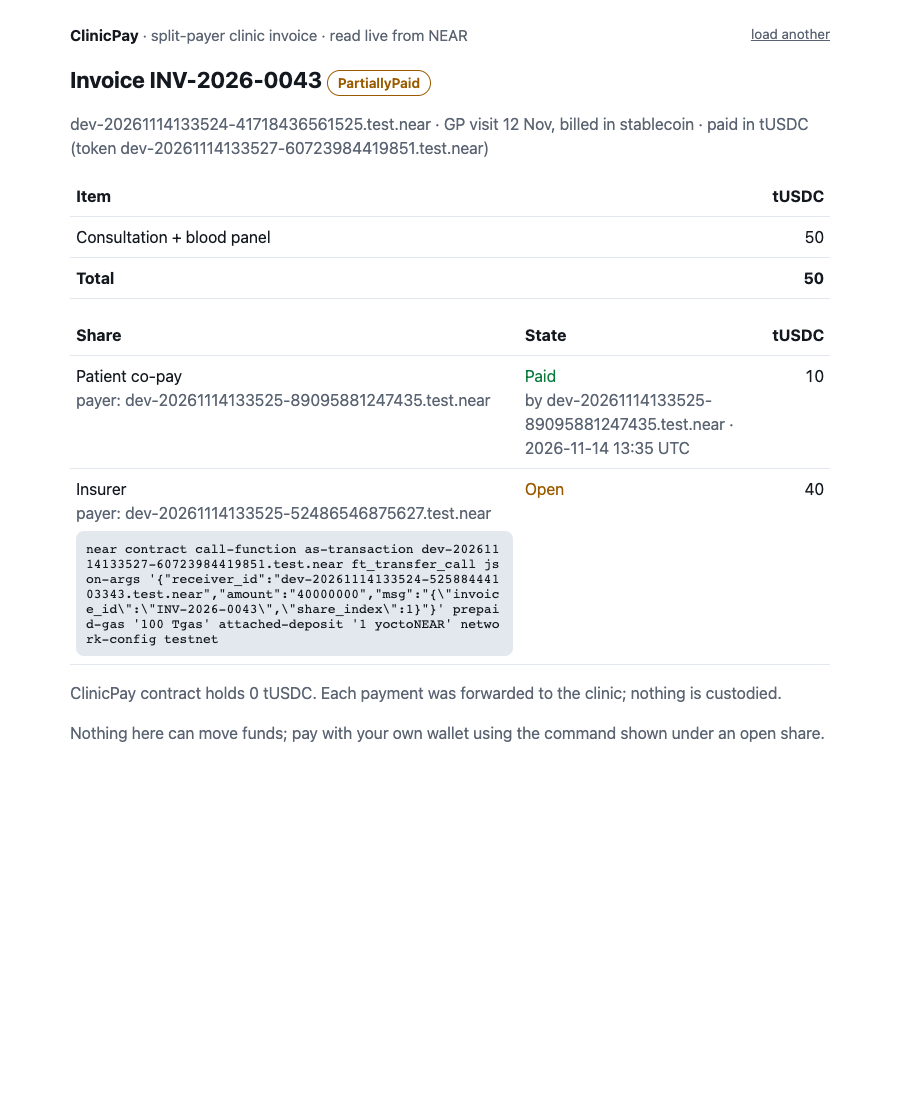
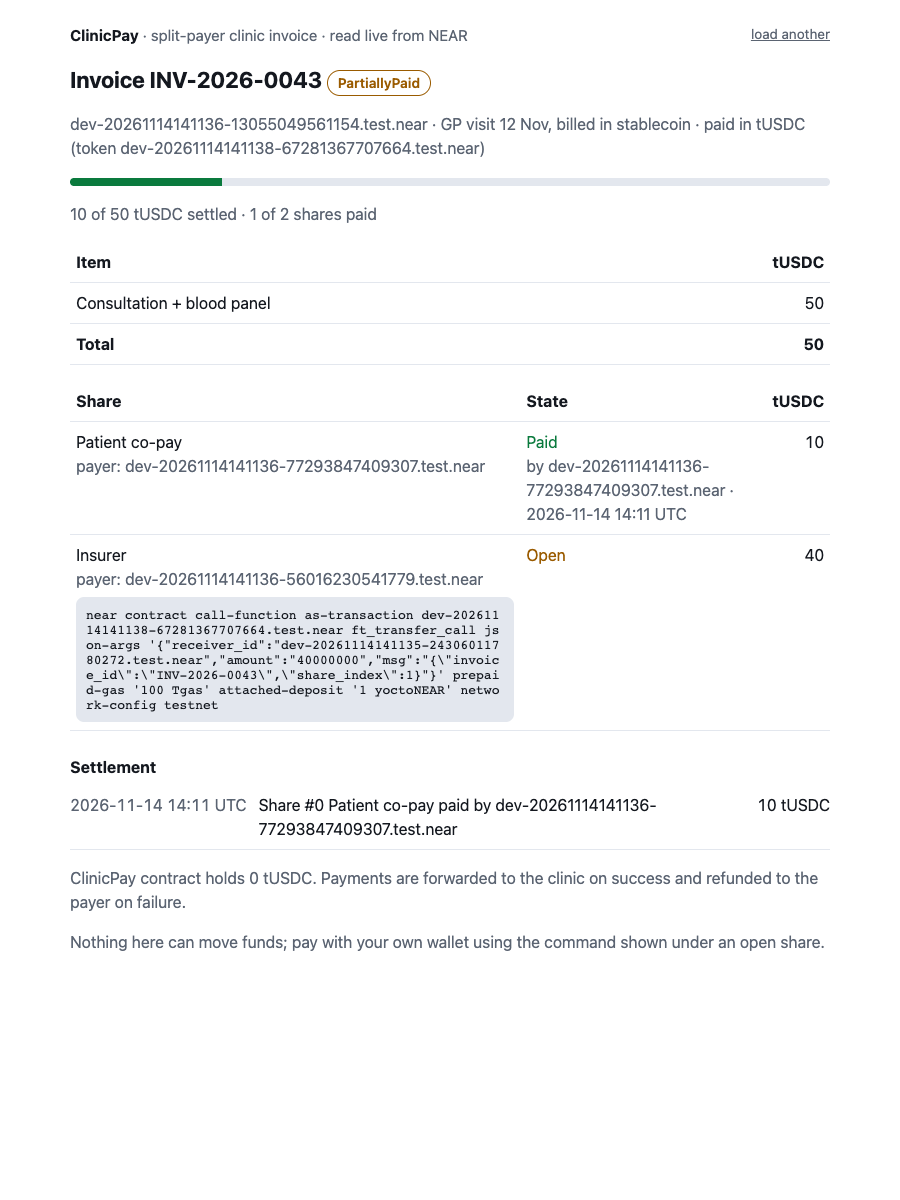
Invoice page: settlement progress and receipt timeline
The viewer now shows how much of the invoice is settled and a chronological
settlement list derived from the on-chain share records, so the page tells
the story without reading the command under an open share.

diff --git a/web/invoice.html b/web/invoice.html
@@ -18,6 +18,14 @@
   .Paid { color:var(--ok); } .PartiallyPaid,.Open { color:var(--warn); } .Overdue,.Cancelled,.Refunded { color:var(--bad); }
   table { width:100%; border-collapse:collapse; margin:16px 0; } th,td { text-align:left; padding:8px 6px; border-bottom:1px solid var(--line); vertical-align:top; }
   td.n,th.n { text-align:right; font-variant-numeric:tabular-nums; }
+  .settle { margin:18px 0 6px; }
+  .bar { height:8px; background:var(--line); border-radius:99px; overflow:hidden; }
+  .bar span { display:block; height:100%; width:0; background:var(--ok); transition:width .35s ease; }
+  h2 { font-size:1rem; margin:24px 0 6px; }
+  .timeline { list-style:none; padding:0; margin:0; }
+  .timeline li { padding:8px 0; border-bottom:1px solid var(--line); display:flex; gap:12px; }
+  .timeline time { color:var(--mut); font-variant-numeric:tabular-nums; white-space:nowrap; }
+  .timeline .amt { margin-left:auto; white-space:nowrap; font-variant-numeric:tabular-nums; }
   code,pre { font:13px ui-monospace,monospace; } pre { white-space:pre-wrap; word-break:break-all; background:var(--line); padding:10px; border-radius:8px; margin:6px 0 0; }
   #err { color:var(--bad); } form { display:grid; gap:8px; grid-template-columns:1fr 1fr; margin:16px 0; } input,button { font:inherit; padding:8px; }
   @media (max-width:520px) { form { grid-template-columns:1fr; } }
@@ -31,8 +39,18 @@
   <section id="out" hidden>
     <h1 id="title"></h1>
     <p class="mut" id="meta"></p>
+    <div class="settle">
+      <div class="bar" role="progressbar" aria-valuemin="0" aria-valuemax="100" aria-valuenow="0" id="bar">
+        <span id="bar-fill"></span>
+      </div>
+      <p class="mut" id="progress"></p>
+    </div>
     <table><thead><tr><th>Item</th><th class="n cur">NEAR</th></tr></thead><tbody id="lines"></tbody></table>
     <table><thead><tr><th>Share</th><th>State</th><th class="n cur">NEAR</th></tr></thead><tbody id="shares"></tbody></table>
+    <section id="settlement" hidden>
+      <h2>Settlement</h2>
+      <ol class="timeline" id="timeline"></ol>
+    </section>
     <p class="mut" id="custody"></p>
     <p class="mut">Nothing here can move funds; pay with your own wallet using the command shown under an open share.</p>
   </section>
@@ -68,6 +86,13 @@ async function show(contract, id) {
     document.getElementById("title").replaceChildren(document.createTextNode(`Invoice ${inv.id} `), el("span", status, `badge ${status}`));
     document.getElementById("meta").textContent = `${inv.payee}${inv.memo ? " · " + inv.memo : ""}${inv.due_ms ? " · due " + when(inv.due_ms) : ""} · paid in ${inv.token ? `${meta.symbol} (token ${inv.token})` : "NEAR"}`;
     const total = inv.lines.reduce((a, l) => a + BigInt(l.amount), 0n);
+    const paid = inv.shares.filter((s) => s.state === "Paid").reduce((a, s) => a + BigInt(s.amount), 0n);
+    const pct = total === 0n ? 0 : Number((paid * 100n) / total);
+    const paidCount = inv.shares.filter((s) => s.state === "Paid").length;
+    document.getElementById("bar").setAttribute("aria-valuenow", String(pct));
+    document.getElementById("bar-fill").style.width = `${pct}%`;
+    document.getElementById("progress").textContent =
+      `${amt(paid)} of ${amt(total)} ${meta.symbol} settled · ${paidCount} of ${inv.shares.length} share${inv.shares.length === 1 ? "" : "s"} paid`;
     const L = document.getElementById("lines"); L.replaceChildren(
       ...inv.lines.map((l) => row([el("td", l.description), el("td", amt(l.amount), "n")])),
       row([el("th", "Total"), el("th", amt(total), "n")]));
@@ -86,10 +111,23 @@ async function show(contract, id) {
       }
       S.append(row([first, state, el("td", amt(s.amount), "n")]));
     });
+    const events = [];
+    inv.shares.forEach((s, i) => {
+      if (s.paid_at_ms) events.push({ t: Number(s.paid_at_ms), text: `Share #${i} ${s.label} paid by ${s.paid_by}`, amount: s.amount });
+      if (s.refunded_at_ms) events.push({ t: Number(s.refunded_at_ms), text: `Share #${i} ${s.label} refunded`, amount: s.amount });
+    });
+    events.sort((a, b) => a.t - b.t);
+    const tl = document.getElementById("timeline");
+    tl.replaceChildren(...events.map((e) => {
+      const li = document.createElement("li");
+      li.append(el("time", when(e.t)), el("span", e.text), el("span", `${fmt(e.amount, meta.decimals)} ${meta.symbol}`, "amt"));
+      return li;
+    }));
+    document.getElementById("settlement").hidden = events.length === 0;
     const custody = document.getElementById("custody");
     if (inv.token) {
       const held = await view(inv.token, "ft_balance_of", { account_id: contract });
-      custody.textContent = `ClinicPay contract holds ${fmt(held, meta.decimals)} ${meta.symbol}. Each payment was forwarded to the clinic; nothing is custodied.`;
+      custody.textContent = `ClinicPay contract holds ${fmt(held, meta.decimals)} ${meta.symbol}. Payments are forwarded to the clinic on success and refunded to the payer on failure.`;
     } else {
       custody.textContent = "ClinicPay never holds customer funds: each share is forwarded to the clinic in the same transaction.";
     }
